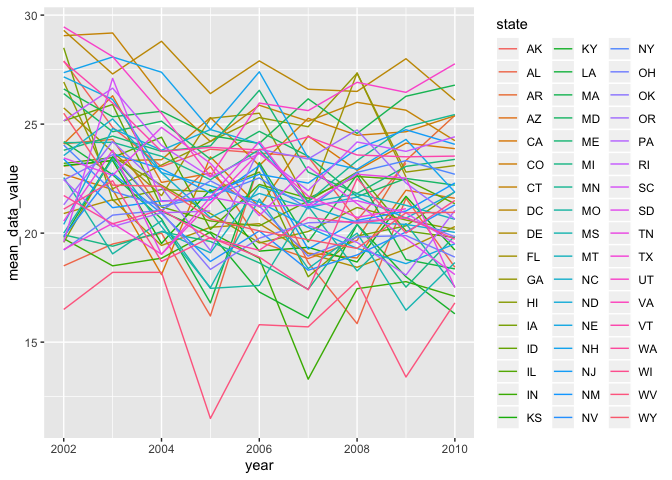
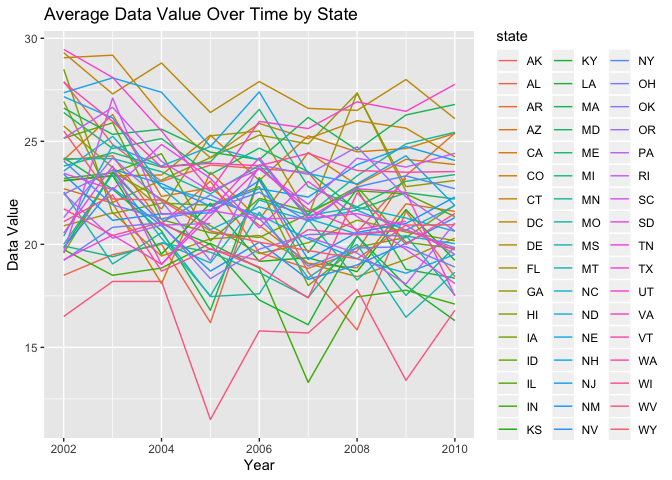
checked final knit and fixed final formatting issues

diff --git a/p8105_hw3_bw2595.md b/p8105_hw3_bw2595.md
@@ -119,8 +119,7 @@ items_plot = instacart %>%
     labs(
     title = "Number of items ordered per aisle",
     x = "aisle name",
-    y = "number of items ordered"
-    )
+    y = "number of items ordered")
 items_plot
 ```
 
@@ -187,6 +186,10 @@ apples_cream = instacart %>%
                          `4` = "Thursday",
                          `5` = "Friday",
                          `6` = "Saturday")) %>%
+  separate(mean_hour_of_day, into = c("hour", "minutes"), sep = 2) %>%
+  mutate(minutes = as.numeric(minutes), 
+         minutes = round(minutes*60, digits = 0),
+         mean_hour_of_day = paste(hour, minutes, sep = ":")) %>%
   select(product_name, day_of_week, mean_hour_of_day) %>%
   pivot_wider(
     names_from = "product_name",
@@ -196,14 +199,14 @@ apples_cream
 ```
 
 | day\_of\_week | Coffee Ice Cream | Pink Lady Apples |
-| :------------ | ---------------: | ---------------: |
-| Sunday        |         13.77419 |         13.44118 |
-| Monday        |         14.31579 |         11.36000 |
-| Tuesday       |         15.38095 |         11.70213 |
-| Wednesday     |         15.31818 |         14.25000 |
-| Thursday      |         15.21739 |         11.55172 |
-| Friday        |         12.26316 |         12.78431 |
-| Saturday      |         13.83333 |         11.93750 |
+| :------------ | :--------------- | :--------------- |
+| Sunday        | 13:46            | 13:26            |
+| Monday        | 14:19            | 11:22            |
+| Tuesday       | 15:23            | 11:42            |
+| Wednesday     | 15:19            | 14:15            |
+| Thursday      | 15:13            | 11:33            |
+| Friday        | 12:16            | 12:47            |
+| Saturday      | 13:50            | 11:56            |
 
 Mean Hour of Pink Lady Apples and Coffee Ice Cream Orders
 
@@ -250,14 +253,10 @@ brfss_smart2010 = brfss_smart2010 %>%
     county = locationdesc,
     lcl = confidence_limit_low,
     ucl = confidence_limit_high) %>%
-  separate(county, into = c("states", "county")) %>%
-  select(-states, -data_value_footnote, -data_value_footnote_symbol, -location_id) %>%
+  select(-data_value_footnote, -data_value_footnote_symbol, -location_id) %>%
   filter(topic == "Overall Health") %>%
   mutate(response = factor(response, c("Poor", "Fair", "Good", "Very good", "Excellent")))
 ```
-
-    ## Warning: Expected 2 pieces. Additional pieces discarded in 134203 rows [1,
-    ## 2, 3, 4, 5, 6, 7, 8, 9, 10, 11, 12, 13, 14, 15, 16, 17, 18, 19, 20, ...].
 
   - Here, we clean the variable names, then rename locationabbr to
     state, confidence\_limit\_low to lcl, and confidence\_limit\_high to
@@ -273,51 +272,52 @@ brfss_smart2010 = brfss_smart2010 %>%
 ``` r
 brfss1 = brfss_smart2010 %>% 
   filter(year == "2002") %>%
-  distinct(state, county) %>%
-  count(state) %>%
-  filter(n >= 7) %>%
-  rename(number_sites = n)
+  group_by(year, state) %>%
+  summarize(state_locations = n_distinct(county)) %>%
+  filter(state_locations >= 7)
 brfss1
 ```
 
-    ## # A tibble: 5 x 2
-    ##   state number_sites
-    ##   <chr>        <int>
-    ## 1 FL               7
-    ## 2 MA               8
-    ## 3 NC               7
-    ## 4 NJ               8
-    ## 5 PA              10
+    ## # A tibble: 6 x 3
+    ## # Groups:   year [1]
+    ##    year state state_locations
+    ##   <int> <chr>           <int>
+    ## 1  2002 CT                  7
+    ## 2  2002 FL                  7
+    ## 3  2002 MA                  8
+    ## 4  2002 NC                  7
+    ## 5  2002 NJ                  8
+    ## 6  2002 PA                 10
 
 ``` r
 brfss2 = brfss_smart2010 %>% 
   filter(year == "2010") %>%
-  distinct(state, county) %>%
-  count(state) %>%
-  filter(n >= 7) %>%
-  rename(number_sites = n) 
+  group_by(year, state) %>%
+  summarize(state_locations = n_distinct(county)) %>%
+  filter(state_locations >= 7)
 brfss2
 ```
 
-    ## # A tibble: 14 x 2
-    ##    state number_sites
-    ##    <chr>        <int>
-    ##  1 CA               9
-    ##  2 CO               7
-    ##  3 FL              40
-    ##  4 MA               9
-    ##  5 MD              11
-    ##  6 NC              12
-    ##  7 NE              10
-    ##  8 NJ              19
-    ##  9 NY               9
-    ## 10 OH               8
-    ## 11 PA               7
-    ## 12 SC               7
-    ## 13 TX              16
-    ## 14 WA              10
+    ## # A tibble: 14 x 3
+    ## # Groups:   year [1]
+    ##     year state state_locations
+    ##    <int> <chr>           <int>
+    ##  1  2010 CA                 12
+    ##  2  2010 CO                  7
+    ##  3  2010 FL                 41
+    ##  4  2010 MA                  9
+    ##  5  2010 MD                 12
+    ##  6  2010 NC                 12
+    ##  7  2010 NE                 10
+    ##  8  2010 NJ                 19
+    ##  9  2010 NY                  9
+    ## 10  2010 OH                  8
+    ## 11  2010 PA                  7
+    ## 12  2010 SC                  7
+    ## 13  2010 TX                 16
+    ## 14  2010 WA                 10
 
-  - In 2002, there were 5 states which had 7 or more observation sites
+  - In 2002, there were 6 states which had 7 or more observation sites
     (counties), shown in the first tibble above. In 2010, there were 14
     states which had 7 or more observations sites (counties), shown in
     the second tibble
@@ -332,7 +332,12 @@ excellent = brfss_smart2010 %>%
   summarize(
     mean_data_value = mean(data_value)) %>%
   ggplot(aes(x = year, y = mean_data_value, group = state, color = state)) +
-  geom_line()
+  geom_line() +
+  labs(
+    title = "Average Data Value Over Time by State", 
+    x = "Year", 
+    y = "Data Value"
+  )
 excellent
 ```
 
